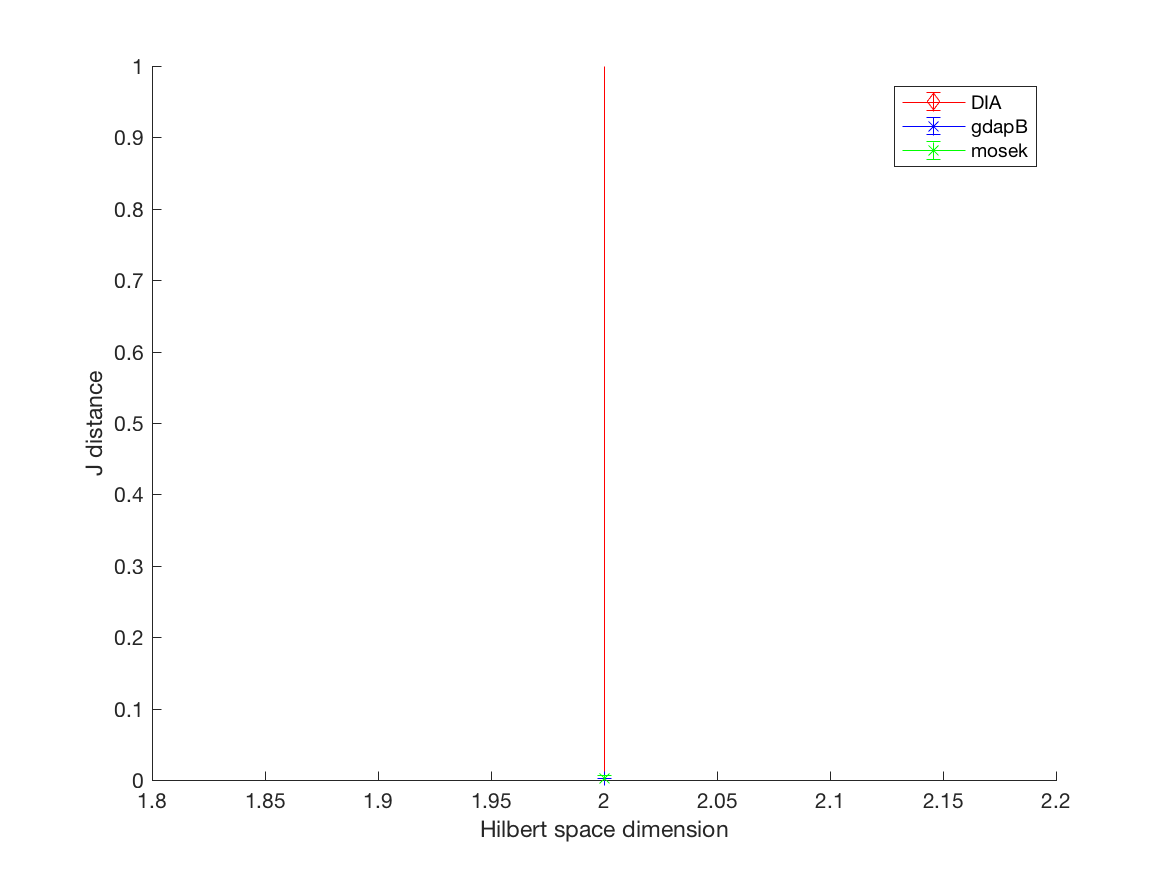
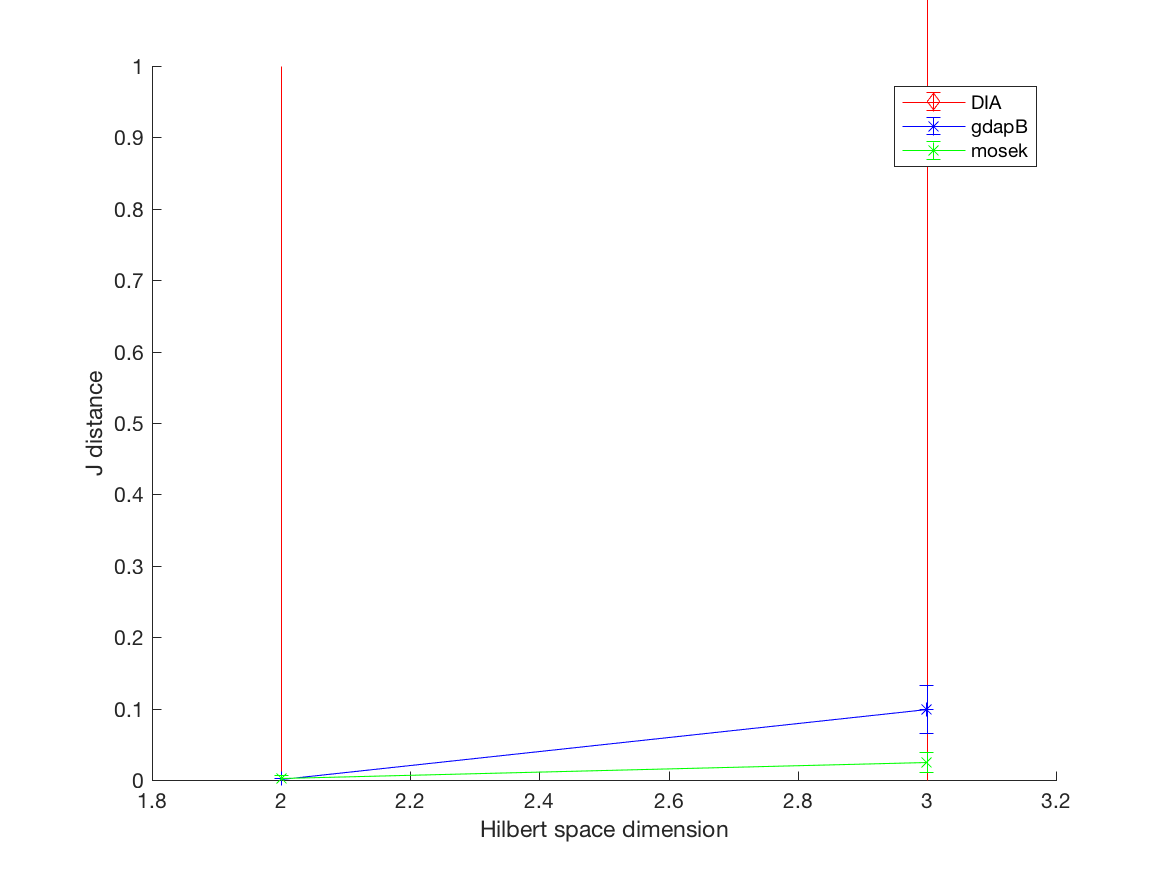
nicer indenting

diff --git a/PSD_project.m b/PSD_project.m
@@ -6,12 +6,12 @@ function [ projected_choi_vec ] = PSD_project( choi_vec )
     choi = reshape(choi_vec,[],d);
     
    
-%     choi = (choi + choi')/2;
-%     [V,D] = eig(choi);
-%     D = max(D,0);
-%     choi = V*D*V';
+    choi = (choi + choi')/2;
+    [V,D] = eig(choi);
+    D = max(D,0);
+    choi = V*D*V';
 
-    choi = positiveProjection(choi); % Smolin method from EB
+%     choi = positiveProjection(choi); % Smolin method from EB
     
     projected_choi_vec = reshape(choi,[],1);
 end

diff --git a/trace_dist.m b/trace_dist.m
@@ -1,8 +1,8 @@
 function [ d ] = trace_dist( A,B )
 %UNTITLED2 Summary of this function goes here
 %   Detailed explanation goes here
-[U,S,V] = svd(A-B);
-d = 0.5*trace(S);
-
+    [U,S,V] = svd(A-B);
+    d = 0.5*trace(S);
+    % nicely indented
 end
 

diff --git a/make_plots.m b/make_plots.m
@@ -1,5 +1,5 @@
 % read in 100 running times for each method, for each d.
-dmax = 2;
+dmax = 3;
 
 gdapB_times = zeros(100,dmax);
 mosek_times = zeros(100,dmax);
